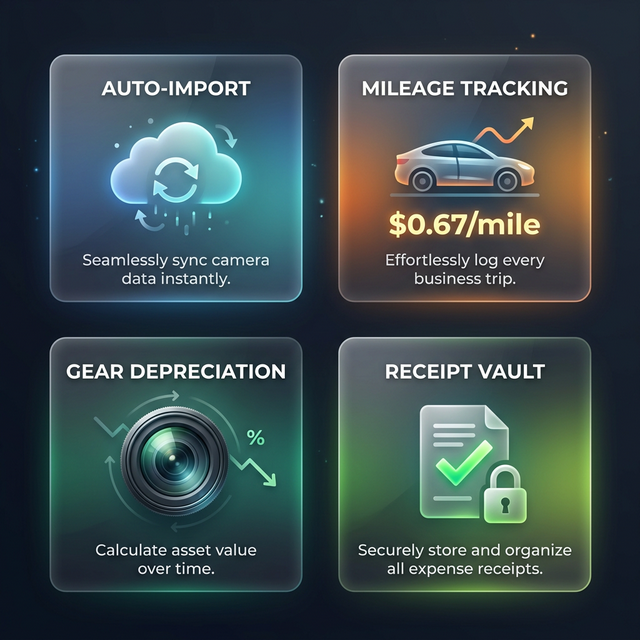
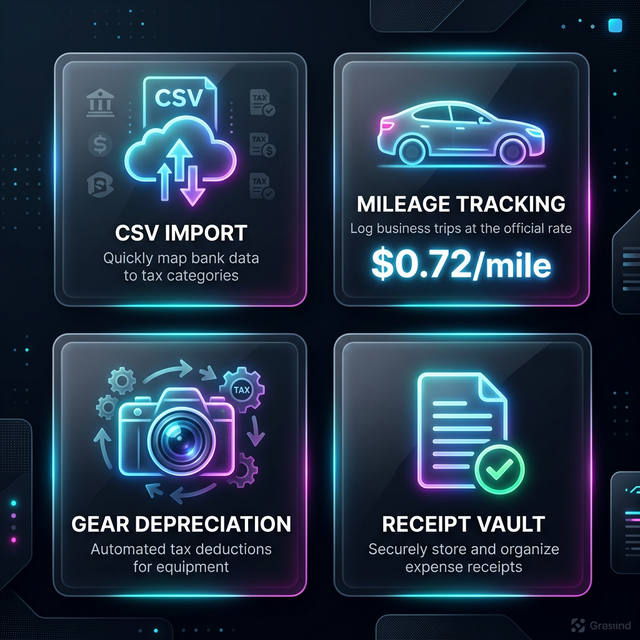
SaaS Admin: Added personalized recipient name and email to invite codes

diff --git a/web-react/src/pages/Backup.jsx b/web-react/src/pages/Backup.jsx
@@ -18,6 +18,8 @@ export default function Backup() {
     const [allSubscriptions, setAllSubscriptions] = useState([]);
     const [betaCodes, setBetaCodes] = useState([]);
     const [genCodeLoading, setGenCodeLoading] = useState(false);
+    const [inviteName, setInviteName] = useState('');
+    const [inviteEmail, setInviteEmail] = useState('');
     const [allExpenses, setAllExpenses] = useState([]);
     const [loading, setLoading] = useState(false);
     const [isHealthy, setIsHealthy] = useState(true);
@@ -120,7 +122,13 @@ export default function Backup() {
     const handleGenerateBetaCode = async () => {
         setGenCodeLoading(true);
         try {
-            await apiPost('/admin/beta-codes', { daysValid: 90 });
+            await apiPost('/admin/beta-codes', { 
+                daysValid: 90,
+                assigned_to_name: inviteName,
+                assigned_to_email: inviteEmail
+            });
+            setInviteName('');
+            setInviteEmail('');
             loadData(true);
         } catch (err) {
             modal.alert(err.message);
@@ -633,17 +641,29 @@ export default function Backup() {
 
              {activeTab === 'saas' && user?.email === 'joshua.deuermeyer@gmail.com' && (
                 <div style={{ display: 'flex', flexDirection: 'column', gap: '30px' }}>
-                     <div className="card glass glow-blue" style={{ border: 'none', padding: '40px', display: 'flex', justifyContent: 'space-between', alignItems: 'center' }}>
-                         <div>
-                            <h2 style={{ fontSize: '2rem', margin: 0 }}>Active Studio Licenses</h2>
-                            <p className="muted">Monitoring all registered studio sessions across the platform.</p>
+                     <div className="card glass glow-blue" style={{ border: 'none', padding: '40px' }}>
+                         <div style={{ display: 'flex', justifyContent: 'space-between', alignItems: 'flex-end', gap: '20px', flexWrap: 'wrap' }}>
+                             <div style={{ flex: 1, minWidth: '300px' }}>
+                                <h2 style={{ fontSize: '2rem', margin: 0 }}>Active Studio Licenses</h2>
+                                <p className="muted">Monitoring all registered studio sessions across the platform.</p>
+                             </div>
+                             <div style={{ display: 'flex', gap: '15px', alignItems: 'flex-end' }}>
+                                 <div style={{ width: '200px' }}>
+                                     <small className="muted" style={{ fontWeight: 900, marginBottom: '8px', display: 'block' }}>RECIPIENT NAME</small>
+                                     <input value={inviteName} onChange={e => setInviteName(e.target.value)} placeholder="Photographer Name" style={{ padding: '12px' }} />
+                                 </div>
+                                 <div style={{ width: '250px' }}>
+                                     <small className="muted" style={{ fontWeight: 900, marginBottom: '8px', display: 'block' }}>RECIPIENT EMAIL</small>
+                                     <input type="email" value={inviteEmail} onChange={e => setInviteEmail(e.target.value)} placeholder="hello@studio.com" style={{ padding: '12px' }} />
+                                 </div>
+                                 <button className="btn primary" onClick={handleGenerateBetaCode} disabled={genCodeLoading} style={{ height: '48px' }}>
+                                    {genCodeLoading ? 'Generating...' : 'Generate 90-Day Beta Key'}
+                                 </button>
+                             </div>
                          </div>
-                         <button className="btn primary" onClick={handleGenerateBetaCode} disabled={genCodeLoading}>
-                            {genCodeLoading ? 'Generating...' : 'Generate 90-Day Beta Key'}
-                         </button>
-                     </div>
+                      </div>
 
-                     <div style={{ display: 'flex', flexDirection: 'column', gap: '30px' }}>
+                      <div style={{ display: 'flex', flexDirection: 'column', gap: '30px' }}>
                         <div className="card glass" style={{ margin: 0, padding: '30px' }}>
                             <h3>Invite Codes</h3>
                             <div className="tableWrap" style={{ border: 'none', marginTop: '20px' }}>
@@ -651,16 +671,21 @@ export default function Backup() {
                                     <thead>
                                         <tr>
                                             <th style={{ textAlign: 'left' }}>Code</th>
+                                            <th style={{ textAlign: 'left' }}>Assigned To</th>
                                             <th style={{ textAlign: 'left' }}>Status</th>
                                         </tr>
                                     </thead>
                                     <tbody>
                                         {betaCodes.map(c => (
                                             <tr key={c.code}>
-                                                <td style={{ fontWeight: 800 }}>{c.code}</td>
+                                                <td style={{ fontWeight: 800, color: 'var(--accent)' }}>{c.code}</td>
+                                                <td>
+                                                    <div style={{ fontWeight: 800 }}>{c.assigned_to_name || '—'}</div>
+                                                    <div className="muted small">{c.assigned_to_email || 'General Release'}</div>
+                                                </td>
                                                 <td>
                                                     {c.is_used 
-                                                        ? <span className="tag bad">{c.used_by_email}</span> 
+                                                        ? <span className="tag bad" style={{ fontSize: '10px' }}>USED BY: {c.used_by_email}</span> 
                                                         : <span className="tag ok">AVAILABLE</span>
                                                     }
                                                 </td>

diff --git a/web-react/src/App.jsx b/web-react/src/App.jsx
@@ -123,8 +123,9 @@ function AppContent() {
             <NavLink to="/equipment" className={({ isActive }) => `pill ${isActive ? 'active' : ''}`}>Equipment</NavLink>
              <NavLink to="/crm" className={({ isActive }) => `pill ${isActive ? 'active' : ''}`}>CRM</NavLink>
              <NavLink to="/backup" className={({ isActive }) => `pill ${isActive ? 'active' : ''}`}>SCC Console</NavLink>
-             <NavLink to="/marketing" className={({ isActive }) => `pill ${isActive ? 'active' : ''}`}>Marketing</NavLink>
+             <NavLink to="/marketing/studiotracker" className={({ isActive }) => `pill ${isActive ? 'active' : ''}`}>Marketing</NavLink>
            </div>
+
 
         </div>
         <div style={{ display: 'flex', alignItems: 'center', gap: '20px' }}>
@@ -154,8 +155,9 @@ function AppContent() {
           <Route path="/backup" element={<Backup />} />
            <Route path="/crm/*" element={<CRM />} />
            <Route path="/import" element={<Import />} />
-           <Route path="/marketing" element={<Marketing />} />
+           <Route path="/marketing/studiotracker" element={<Marketing />} />
            <Route path="*" element={<Navigate to="/" />} />
+
 
         </Routes>
       </main>

diff --git a/api/routes/admin.js b/api/routes/admin.js
@@ -121,10 +121,10 @@ router.get("/subscriptions", async (req, res) => {
 });
 
 // POST /admin/beta-codes
-// Generate a new code: { code, daysValid }
+// Generate a new code: { code, daysValid, assigned_to_name, assigned_to_email }
 router.post("/beta-codes", async (req, res) => {
     try {
-        const { code, daysValid = 30 } = req.body;
+        const { code, daysValid = 30, assigned_to_name, assigned_to_email } = req.body;
         const validUntil = new Date();
         validUntil.setDate(validUntil.getDate() + daysValid);
 
@@ -132,7 +132,9 @@ router.post("/beta-codes", async (req, res) => {
             .from('beta_codes')
             .insert({
                 code: code || Math.random().toString(36).substring(2, 10).toUpperCase(),
-                valid_until: validUntil.toISOString()
+                valid_until: validUntil.toISOString(),
+                assigned_to_name,
+                assigned_to_email
             })
             .select()
             .single();

diff --git a/web-react/src/pages/Marketing.jsx b/web-react/src/pages/Marketing.jsx
@@ -34,8 +34,9 @@ const Marketing = () => {
         <div className="glass" style={{ padding: '30px', borderRadius: '20px' }}>
           <div style={{ fontSize: '40px', marginBottom: '20px' }}>🚗</div>
           <h3 style={{ fontSize: '24px', fontWeight: 800, marginBottom: '15px' }}>Automatic Mileage</h3>
-          <p style={{ opacity: 0.7, lineHeight: '1.6' }}>Log every trip to the studio or location shoot. We pull live IRS rates directly from IRS.gov to ensure you're getting every cent of your 67¢ per mile.</p>
+          <p style={{ opacity: 0.7, lineHeight: '1.6' }}>Log every trip to the studio or location shoot. We pull live IRS rates directly from IRS.gov to ensure you're getting every cent of your 72¢ per mile.</p>
         </div>
+
 
         <div className="glass" style={{ padding: '30px', borderRadius: '20px' }}>
           <div style={{ fontSize: '40px', marginBottom: '20px' }}>🏦</div>

diff --git a/photographer_promo_kit.md b/photographer_promo_kit.md
@@ -86,7 +86,7 @@ Instead of manually typing every transaction into a spreadsheet, the modern way 
 #### 1. Depreciation (The Hidden Goldmine)
 Equipment isn't just an expense; it's an asset. Under Section 179, photographers can often deduct the entire purchase price of gear in the first year. The Studio Tracker automates this calculation, moving the value from your "Equipment" tab directly to your Schedule C Tax report.
 
-#### 2. The 67¢ Per Mile Rule
+#### 2. The 72¢ Per Mile Rule
 In 2026, every mile matters. If you're driving to client meetings or scouting locations, you're leaving money on the table if you aren't logging it. Integrated trackers that pull the official IRS rates mean you never have to guess the math again.
 
 #### 3. Receipt Integrity
@@ -95,4 +95,4 @@ If an expense is over $75, you need a receipt. It's that simple. A digital dashb
 ### Conclusion
 You didn't become a photographer to become an accountant. But to keep being a photographer, you HAVE to manage your finances. Stop using software that was built for "big companies" and start using a tool built for the creative grind. 
 
-*Ready to take control? Check out our [Studio Tracker Demo](/marketing) today.*
+*Ready to take control? Check out our [Studio Tracker Demo](/marketing/studiotracker) today.*
